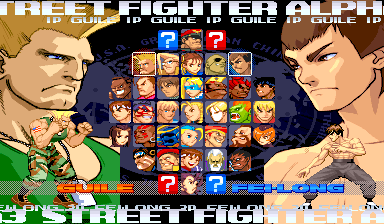
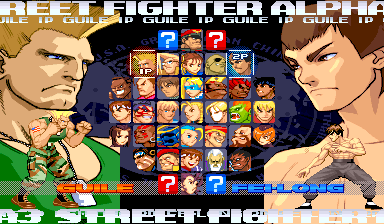
sfa3-upper-cps2: title screens and release-build screenshots
Adds the USA and Japanese title screens side by side and replaces the
character select and Guile vs Fei Long shots with captures of the
released rc1 build (the earlier select capture predated the 1P/2P cursor
fix). Page-only fields; no download changes.

diff --git a/docs/sfa3-upper-cps2/index.html b/docs/sfa3-upper-cps2/index.html
@@ -20,7 +20,7 @@
 <meta property="og:title" content="Street Fighter Alpha 3 Upper (CPS-2)">
 <meta property="og:description" content="Upper on CPS-2, with Guile, Fei Long, Dee Jay, T. Hawk, Evil Ryu and Shin Akuma, in USA (English) and Japan builds.">
 <meta property="og:url" content="https://arcadepatches.com/sfa3-upper-cps2/">
-<meta property="og:image" content="https://arcadepatches.com/img/social/sfa3-upper-cps2-65fd5f6a94.png">
+<meta property="og:image" content="https://arcadepatches.com/img/social/sfa3-upper-cps2-ea03af5f1b.png">
 <meta property="og:image:width" content="1200">
 <meta property="og:image:height" content="630">
 <meta property="og:image:alt" content="Street Fighter Alpha 3 Upper (CPS-2)">
@@ -28,7 +28,7 @@
 <meta name="twitter:site" content="@ArcadePatches">
 <meta name="twitter:title" content="Street Fighter Alpha 3 Upper (CPS-2)">
 <meta name="twitter:description" content="Upper on CPS-2, with Guile, Fei Long, Dee Jay, T. Hawk, Evil Ryu and Shin Akuma, in USA (English) and Japan builds.">
-<meta name="twitter:image" content="https://arcadepatches.com/img/social/sfa3-upper-cps2-65fd5f6a94.png">
+<meta name="twitter:image" content="https://arcadepatches.com/img/social/sfa3-upper-cps2-ea03af5f1b.png">
 <link rel="icon" href="../favicon.png" type="image/png" sizes="64x64">
 <link rel="alternate icon" href="../favicon.ico" sizes="16x16 32x32 48x48">
 <link rel="apple-touch-icon" href="../apple-touch-icon.png">
@@ -52,8 +52,9 @@
 <div class="badges"><span class="badge release-candidate">Release candidate</span><span class="badge plain">rc1</span><span class="badge plain">Capcom CPS-2 with the CPS+ core</span></div>
 <dl class="meta"><dt>Game</dt><dd>Street Fighter Alpha / Zero 3 Upper</dd><dt>Hardware</dt><dd>Capcom CPS-2 with the CPS+ core</dd><dt>MAME set</dt><dd>sfa3up / sfz3up</dd><dt>Version</dt><dd>rc1</dd><dt>Updated</dt><dd>2026-11-04</dd></dl>
 <h2>Screenshots</h2>
-<figure class="shot single"><img src="../img/sfa3-upper-cps2/00_single.png?v=1b773f2c7f" alt="Choose from the expanded Upper roster."><figcaption>Choose from the expanded Upper roster.</figcaption></figure>
-<figure class="shot single"><img src="../img/sfa3-upper-cps2/01_single.png?v=cef2083a83" alt="Guile and Fei Long on Guile’s stage."><figcaption>Guile and Fei Long on Guile’s stage.</figcaption></figure>
+<figure class="shot"><div class="pair"><div><p class="label">USA</p><img src="../img/sfa3-upper-cps2/00_before.png?v=f929c86c92" alt="USA: The USA and Japanese title screens."></div><div><p class="label">Japan</p><img src="../img/sfa3-upper-cps2/00_after.png?v=8e9ef957c9" alt="Japan: The USA and Japanese title screens."></div></div><figcaption>The USA and Japanese title screens.</figcaption></figure>
+<figure class="shot single"><img src="../img/sfa3-upper-cps2/01_single.png?v=4d90842ce6" alt="Choose from the expanded Upper roster."><figcaption>Choose from the expanded Upper roster.</figcaption></figure>
+<figure class="shot single"><img src="../img/sfa3-upper-cps2/02_single.png?v=4318d2bcb7" alt="Guile and Fei Long on Guile’s stage."><figcaption>Guile and Fei Long on Guile’s stage.</figcaption></figure>
 <h2>About this patch</h2>
 <div class="requirements"><p>Reconstruction requires your own Alpha 3 / Zero 3 arcade ROMs, the USA Alpha Anthology and Japanese Zero Fighter’s Generation PS2 disc images, and the Zero 3 Upper NAOMI GD-ROM and PIC. MiSTer play requires the CPS+ core and 128 MB SDRAM.</p></div>
 <p>Street Fighter Alpha 3 Upper comes to CPS-2 with Guile, Fei Long, Dee Jay, T. Hawk, Evil Ryu and Shin Akuma. The boxer, Juli and Juni have their own cells on the select screen.</p>

diff --git a/docs/index.html b/docs/index.html
@@ -222,7 +222,7 @@
     <p class="summary">Upper on CPS-2, with Guile, Fei Long, Dee Jay, T. Hawk, Evil Ryu and Shin Akuma, in USA (English) and Japan builds.</p>
     <div class="updated">rc1 · Updated <time datetime="2026-11-04">2026-11-04</time></div>
   </div>
-  <img class="thumb" src="img/sfa3-upper-cps2/00_single.png?v=1b773f2c7f" alt="Street Fighter Alpha 3 Upper (CPS-2) screenshot">
+  <img class="thumb" src="img/sfa3-upper-cps2/00_after.png?v=8e9ef957c9" alt="Street Fighter Alpha 3 Upper (CPS-2) screenshot">
 </a><a class="card" href="sfz2al-restoration/">
   <div>
     <h2>Street Fighter Zero 2 Alpha</h2>
